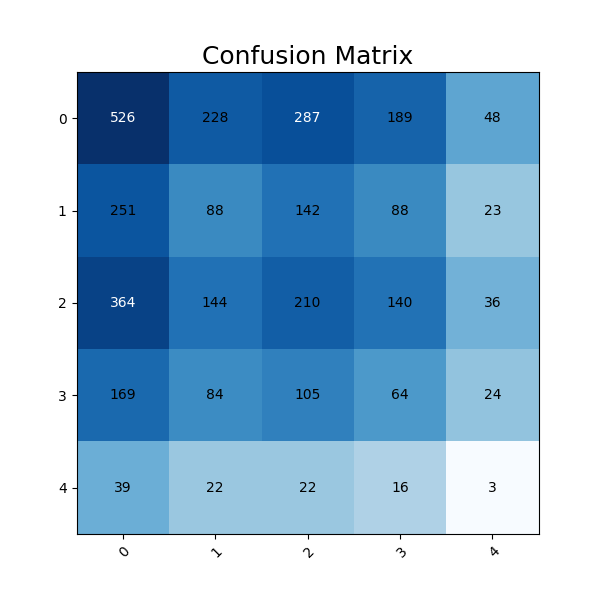
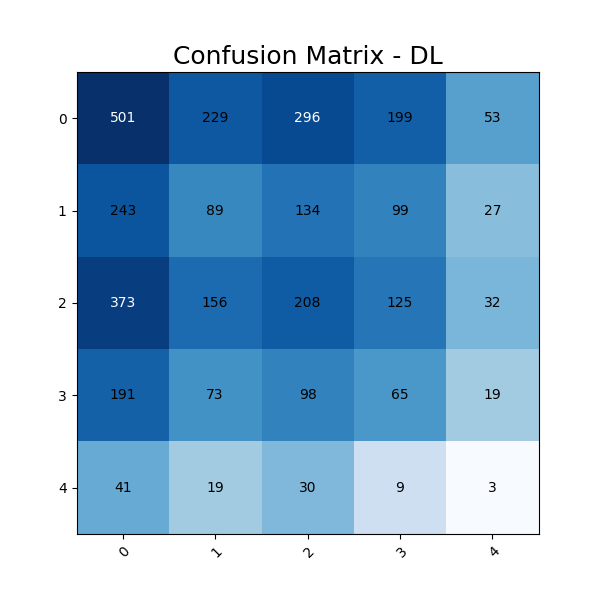
Updated CM

diff --git a/Operations.py b/Operations.py
@@ -297,18 +297,29 @@ def testXGBoost(path_test):
     xgb_model = pickle.load(open('models/XGBoost.h5','rb'))
     print("OK!")
 
+    now = time()
     print("Testing model...",end="")
     xgb_predictions = xgb_model.predict(test_data_table)
     print("OK!")
+    total = time() - now
 
     print("Generating Confusion Matrix...",end="")
-    fig = plot_confusion_matrix(xgb_model, test_data_table, test_labels_int, cmap='Blues')
+    cm = confusion_matrix(y_true=test_labels_int, y_pred=xgb_predictions)
+    fig = plot_confusion_matrix(conf_mat=cm,
+                                    figsize=(6, 6),
+                                    class_names=["0", "1", "2", "3", "4"],
+                                    # cmap='Greys',
+
+                                    norm_colormap=matplotlib.colors.LogNorm())
     plt.xlabel('', fontsize=18)
     plt.ylabel('', fontsize=18)
+    plt.title('Confusion Matrix - XGBoost', fontsize=18)
     plt.savefig("results\\xgb_cm.png")
     print("OK!")
 
     report = classification_report(test_labels_int, xgb_predictions, target_names=["0", "1", "2", "3", "4"])
+
+    print("Total time: " + str(total) + "s")
     return report
 
 def trainXGBoost(path_train):
@@ -367,7 +378,7 @@ def trainXGBoost(path_train):
     print("Model saved!")
     loadModel()
 
-    print("Total time: " + total + "s")
+    print("Total time: " + str(total) + "s")
 
 def testSVM(path_test):
     test_dataset = path_test
@@ -401,11 +412,11 @@ def testSVM(path_test):
     print("Loading model...",end="")
     svm_model = pickle.load(open('models/SVM.h5','rb'))
     print("OK!")
-
+    now = time()
     print("Testing model...",end="")
     svm_predict = svm_model.predict(test_data_table)
     print("OK!")
-
+    total = time() - now
     print("Generating Confusion Matrix...",end="")
 
     cm = confusion_matrix(y_true=test_labels, y_pred=svm_predict)
@@ -419,11 +430,12 @@ def testSVM(path_test):
     #fig = plot_confusion_matrix(svm_model, test_data_table, test_labels, cmap='Blues')
     plt.xlabel('', fontsize=18)
     plt.ylabel('', fontsize=18)
-    plt.title('Confusion Matrix', fontsize=18)
+    plt.title('Confusion Matrix - SVM', fontsize=18)
     plt.savefig("results\\svm_cm.png")
     print("OK!")
 
     report = classification_report(test_labels ,svm_predict, target_names=["0", "1", "2", "3", "4"])
+    print("Total time: " + str(total) + "s")
     return report
 
 def trainSVM(path_train):
@@ -506,9 +518,10 @@ def testDL(path_test):
     print("OK!")
 
     print("Testing model...",end="")
-
+    now = time()
     predict = DL.predict(aug.flow(test_data), batch_size=BS)
     predict = np.argmax(predict, axis=1)
+    total = time() - now
     print(predict)
     print(test_labels)
 
@@ -526,11 +539,11 @@ def testDL(path_test):
 
     plt.xlabel('', fontsize=18)
     plt.ylabel('', fontsize=18)
-    plt.title('Confusion Matrix', fontsize=18)
+    plt.title('Confusion Matrix - DL', fontsize=18)
     # plt.show()
     plt.savefig("results\\dl_cm.png")
     print("OK!")
-
+    print("Total time: " + str(total) + "s")
     return report
 
 def trainDL(path_train, path_val):
@@ -611,8 +624,8 @@ def trainDL(path_train, path_val):
         epochs=Epochs,
         class_weight={0:0.50551181, 1:1.10478011, 2: 0.76226913, 3:1.52655218, 4: 6.67976879}
     )
-    print(time() - now)
-
+    total = time() - now
+    print("OK!")
     acc_train = history.history['accuracy']
     acc_val = history.history['val_accuracy']
 
@@ -627,6 +640,8 @@ def trainDL(path_train, path_val):
     plt.savefig("results\\accuracy.png")
     model.save('.\\trained_model_mobileNet.h5')
     loadModel()
+    print("Model saved!")
+    print("Total time: " + str(total) + "s")
 
 def predict(method, img):
     """

diff --git a/main.py b/main.py
@@ -159,7 +159,7 @@ class ImageOperations:
         img = Operations.apply_match_template(image)
         img = cv.cvtColor(img, cv.COLOR_GRAY2RGB)
         class_pred = Operations.predict("SVM", img)
-        self.classify_image(class_pred)
+        self.classify_image(int(class_pred))
 
     def predictDL(self):
         img = Operations.apply_match_template(image)
